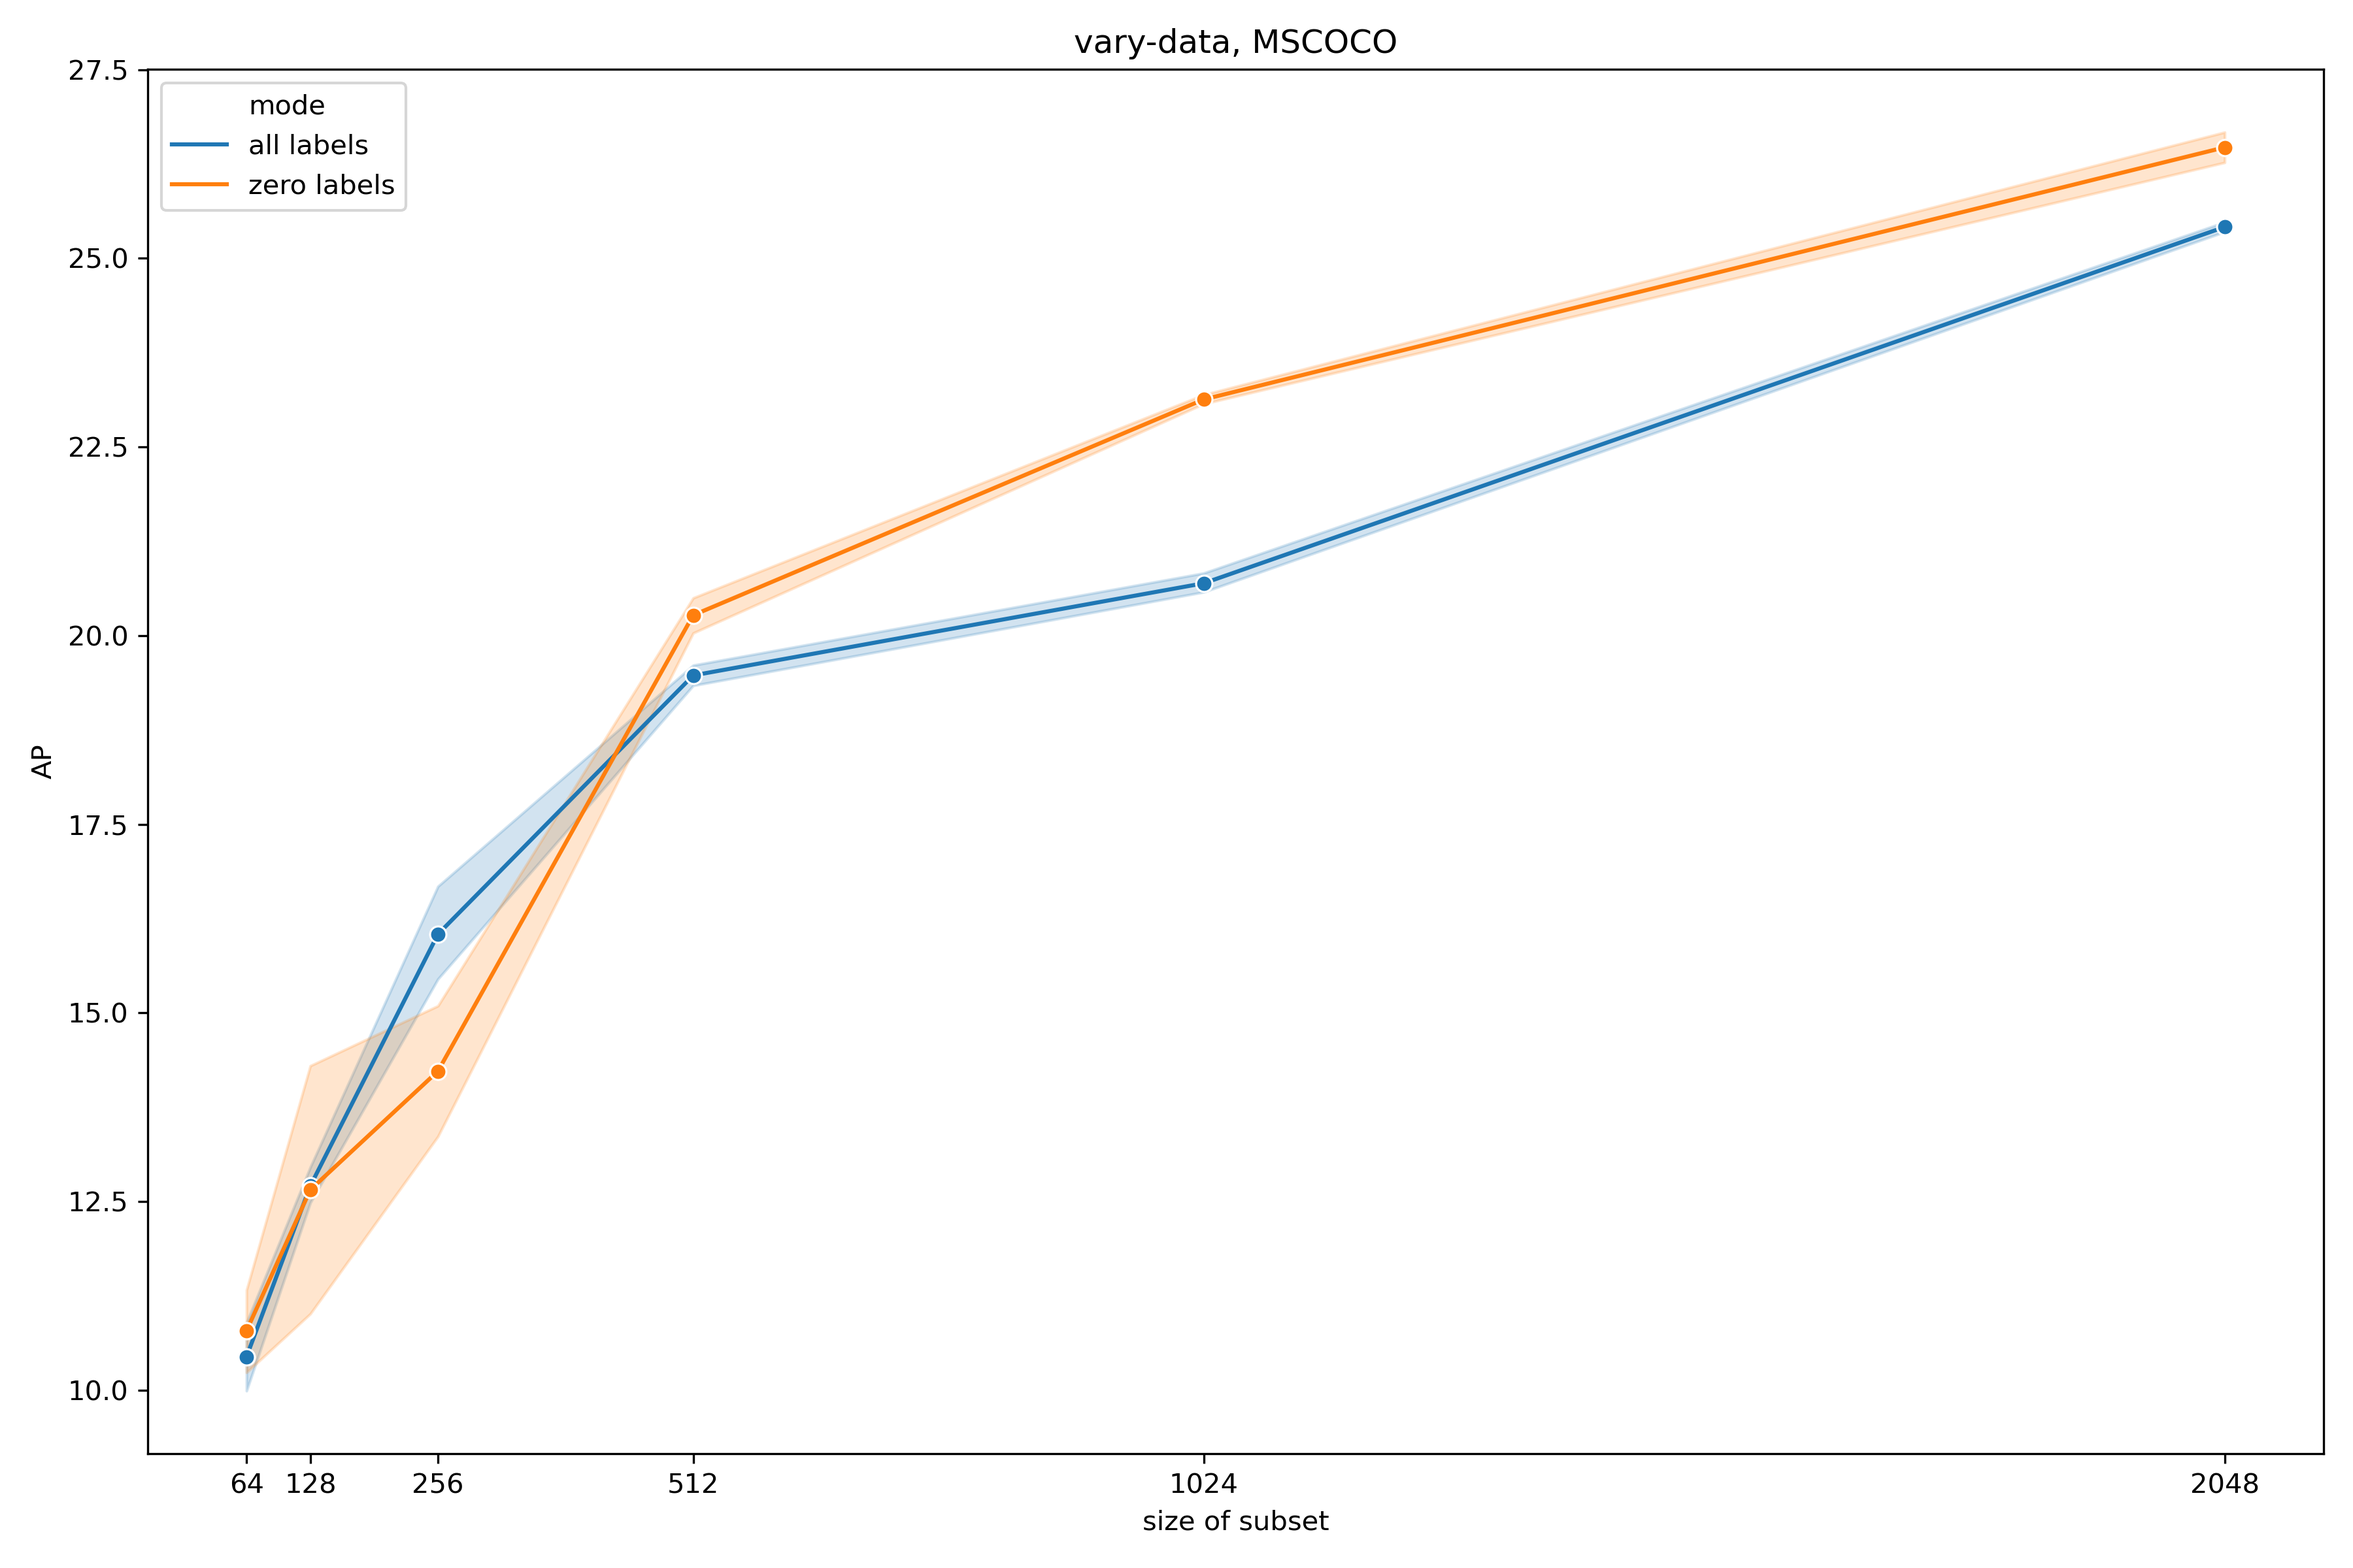
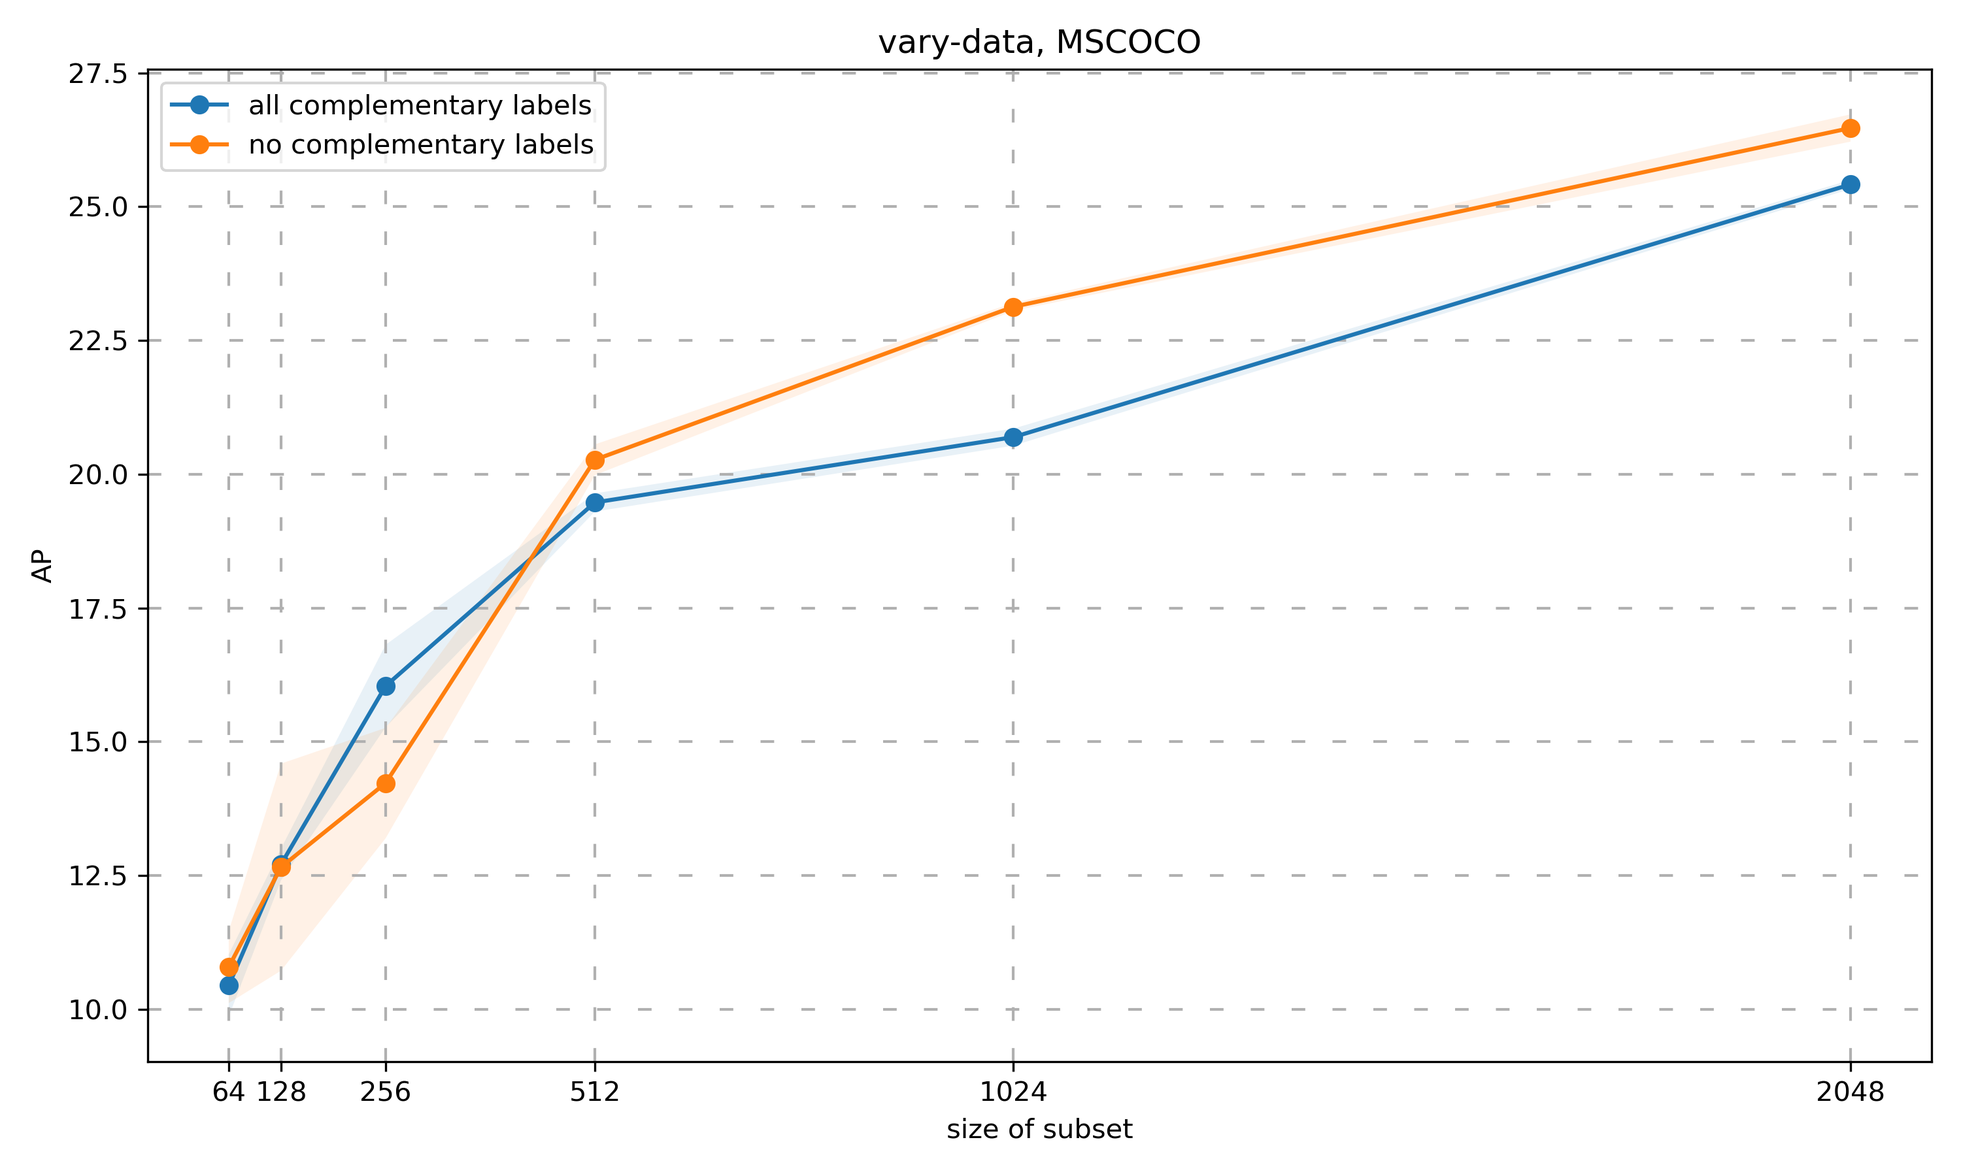
add new image generation

diff --git a/src/scripts/generate_plots.py b/src/scripts/generate_plots.py
@@ -3,7 +3,19 @@ import numpy as np
 import os
 from glob import glob
 import json
-
+import scipy.stats
+import itertools
+def mean_confidence_interval(data, confidence=0.95):
+  cis = []
+  for point in data:
+    a = 1.0 * np.asarray(point)
+    n = len(a)
+    m, se = np.mean(a), scipy.stats.sem(a)
+    h = se * scipy.stats.t.ppf((1 + confidence) / 2., n-1)
+    cis.append(h)
+    # return m, m-h, m+h
+  return np.asarray(cis)
+    
 def plotter(mode, ax, data1, data2, param_dict = {}):
     """
     A helper function to make a graph
@@ -32,6 +44,8 @@ def plotter(mode, ax, data1, data2, param_dict = {}):
       out = ax.plot(data1, data2, **param_dict)
     elif mode == "box":
       out = ax.boxplot(data2, labels=data1, **param_dict)
+    elif mode == "bar":
+      out = ax.bar(x=data1, height=data2, **param_dict)
     return out
 
 # explanation of the various notation:
@@ -53,6 +67,7 @@ def differential(labels, data, main_label, args):
   baseline_mean = np.mean(baseline)
   # ci = 1.96 * np.std(ys_array, axis=1)/y_mean
   fig, ax = plt.subplots(figsize=(10,6))
+  ax.grid(linestyle='--', dashes=(5,10,5,10), linewidth=1, zorder=0)
   for tick in ax.get_xticklabels():
     tick.set_rotation(45)
     tick.set_ha('right')
@@ -60,7 +75,8 @@ def differential(labels, data, main_label, args):
   added_artists = plotter('box', ax, labels, ys_array, {
     "notch": True, 
     "patch_artist": True, 
-    "bootstrap": 1000,
+    #"bootstrap": 1000,
+    "zorder": 2,
     #"showfliers": False,
     "boxprops": {"color": (150./255,200./255,150./255,1), "facecolor": (150./255,200./255,150./255,1)}})
   ax.axhline(y=baseline_mean, color='r', linestyle='--')
@@ -82,43 +98,62 @@ def graph(x, data, main_label, args):
     for point in d:
       y = []
       for p in point:
-        y.append(p["bbox"][main_label]["AP"])
+        # print(len(p))
+        if not np.isnan(p["bbox"][main_label]["AP"]):
+          y.append(p["bbox"][main_label]["AP"])
+        
+      while len(y) < 5:
+        y.append(np.mean(np.asarray(y))) # pad with mean value if nan existed
+        #print(len(y))
+      print(len(y))
+
       ys.append(y)
     processed_data.append(ys)
 
+  for i in range(len(x)):
+    lists = sorted(zip(*[x[i], processed_data[i]]))
+    x[i], processed_data[i] = list(zip(*lists))
+  x_desc = 'number of labels' if args.experiment == "vary-labels" else 'size of subset'
   if len(x) == 1:
     ys = processed_data[0]
     x = x[0]
+
     ys_array = np.asarray(ys)
-    # y_mean = np.mean(ys_array, axis=1)
+    y_mean = np.mean(ys_array, axis=1)
     # ci = 1.96 * np.std(ys_array, axis=1)/y_mean
+    ci0 = mean_confidence_interval(ys, confidence=0.68)
     fig, ax = plt.subplots(figsize=(10,6))
+    ax.grid(linestyle='--', dashes=(5,10,5,10), linewidth=1, zorder=0)
     ax.set_xticks(x)
     ax.set_xticklabels(x)
     # print(np.zeros((len(x), 5), dtype=np.int).T + np.asarray(x, dtype=np.int))
     # print(ys_array)
-    xs_array = (np.zeros((len(x), 5), dtype=np.int).T + np.asarray(x, dtype=np.int)).T
-    x_desc = 'number of labels' if args.experiment == "vary-labels" else 'size of subset'
-    d = {x_desc: np.repeat(np.asarray(x), 5), 'AP': ys_array.flatten()}
-    print(ys_array.flatten())
-    #exit(0)
-    frame = pd.DataFrame(d)
-    print(frame)
-    sns.lineplot(ax = ax,
-              data = frame,
-              x = x_desc, y = 'AP',
-              ci = 68,
-              n_boot=1000,
-              marker='o')
-    # added_artists = plotter('line', ax, x, y_mean, {'marker': 'o'})
+    xs_array = np.asarray(x, dtype=int)
+    # d = {x_desc: np.repeat(np.asarray(x), 5), 'AP': ys_array.flatten()}
+    # print(ys_array.flatten())
+    # #exit(0)
+    # frame = pd.DataFrame(d)
+    # print(frame)
+    # sns.lineplot(ax = ax,
+    #           data = frame,
+    #           x = x_desc, y = 'AP',
+    #           ci = 68,
+    #           n_boot=1000,
+    #           marker='o',
+    #           # kwargs
+    #           zorder= 2)
+    added_artists = plotter('line', ax, x, y_mean, {'marker': 'o'})
     ax.set_title(f"{args.experiment}, {args.dataset}")
-    # ax.fill_between(x, (y_mean-ci), (y_mean+ci), alpha=.1)
+    ax.fill_between(x, (y_mean-ci0), (y_mean+ci0), alpha=.1)
+    ax.set_xlabel(x_desc)
+    ax.set_ylabel("AP")
   elif len(x) == 2:
     ys_all = np.asarray(processed_data[0])
     x_all = x[0]
-    # y_mean = np.mean(ys_array, axis=1)
+    y_mean_all = np.mean(ys_all, axis=1)
     # ci = 1.96 * np.std(ys_array, axis=1)/y_mean
-    fig, ax = plt.subplots(figsize=(12,8))
+    fig, ax = plt.subplots(figsize=(10,6))
+    ax.grid(linestyle='--', dashes=(5,10,5,10), linewidth=1, zorder=0)
     ax.set_xticks(x_all)
     ax.set_xticklabels(x_all)
     # print(np.zeros((len(x), 5), dtype=np.int).T + np.asarray(x, dtype=np.int))
@@ -127,29 +162,41 @@ def graph(x, data, main_label, args):
     x_desc = 'number of labels' if args.experiment == "vary-labels" else 'size of subset'
     
     ys_zero = np.asarray(processed_data[1])
+    y_mean_zero = np.mean(ys_zero, axis=1)
     x_zero = x[1]
-    subset_1 = np.repeat(np.asarray(['all labels' for i in range(len(x_all))], dtype=object), 5)
-    subset_2 = np.repeat(np.asarray(['zero labels' for i in range(len(x_zero))], dtype=object), 5)
-    d = {
-      x_desc: np.hstack((np.repeat(np.asarray(x_all), 5), np.repeat(np.asarray(x_zero), 5))), 
-      'AP': np.hstack((ys_all.flatten(), ys_zero.flatten())),
-      'mode': np.hstack((subset_1, subset_2))
-    }
-    print(ys_all.flatten())
-    #exit(0)
-    frame = pd.DataFrame(d)
-    with pd.option_context('display.max_rows', None, 'display.max_columns', None):  # more options can be specified also
-      print(frame)
-    sns.lineplot(ax = ax,
-              data = frame,
-              x = x_desc, y = 'AP',
-              hue = 'mode',
-              ci = 68,
-              n_boot=1000,
-              marker='o')
-    # added_artists = plotter('line', ax, x, y_mean, {'marker': 'o'})
+    # subset_1 = np.repeat(np.asarray(['all labels' for i in range(len(x_all))], dtype=object), 5)
+    # subset_2 = np.repeat(np.asarray(['zero labels' for i in range(len(x_zero))], dtype=object), 5)
+    # d = {
+    #   x_desc: np.hstack((np.repeat(np.asarray(x_all), 5), np.repeat(np.asarray(x_zero), 5))), 
+    #   'AP': np.hstack((ys_all.flatten(), ys_zero.flatten())),
+    #   'mode': np.hstack((subset_1, subset_2))
+    # }
+    # print(ys_all.flatten())
+    # #exit(0)
+    # frame = pd.DataFrame(d)
+    # with pd.option_context('display.max_rows', None, 'display.max_columns', None):  # more options can be specified also
+    #   print(frame)
+    # sns.lineplot(ax = ax,
+    #           data = frame,
+    #           x = x_desc, y = 'AP',
+    #           hue = 'mode',
+    #           ci = 68,
+    #           n_boot=1000,
+    #           marker='o',
+    #           # kwargs
+    #           zorder= 2)
+    added_artists = plotter('line', ax, x_all, y_mean_all, {'marker': 'o'})
+    ci_all = mean_confidence_interval(ys_all, confidence=0.68)
+    ax.fill_between(x_all, (y_mean_all-ci_all), (y_mean_all+ci_all), alpha=.1)
+    
+    added_artists = plotter('line', ax, x_zero, y_mean_zero, {'marker': 'o'})
+    ci_zero = mean_confidence_interval(ys_zero, confidence=0.68)
+    ax.fill_between(x_zero, (y_mean_zero-ci_zero), (y_mean_zero+ci_zero), alpha=.1)
+
+    ax.legend(['all complementary labels', 'no complementary labels'])
     ax.set_title(f"{args.experiment}, {args.dataset}")
-    # ax.fill_between(x, (y_mean-ci), (y_mean+ci), alpha=.1)
+    ax.set_xlabel(x_desc)
+    ax.set_ylabel("AP")
 
   # for tick in ax.get_xticklabels():
   #   tick.set_rotation(90)
@@ -158,8 +205,66 @@ def graph(x, data, main_label, args):
   plt.savefig(os.path.join(args.path, f"{args.experiment}-{args.dataset}.png"), dpi=300)
   # plt.show()
 
-def bar(data):
-  pass 
+def bar(labels, data, main_label, args):
+  ys = []
+  for point in data:
+    y = []
+    for p in point:
+      y.append(p["bbox"][main_label]["AP"])
+    ys.append(y)
+
+
+  means = np.mean(np.asarray(ys), axis=1)
+  ys_array = [np.asarray(y) for y in ys]
+  ci = mean_confidence_interval(ys, confidence=0.95)
+  print(ci.shape)
+  fig, ax = plt.subplots(figsize=(10,6))
+  ax.grid(linestyle='--', dashes=(5,10,5,10), linewidth=1, zorder=0)  
+  # for tick in ax.get_xticklabels():
+  #   tick.set_rotation(45)
+  #   tick.set_ha('right')
+
+  print(ci)
+  print(labels)
+  print(ys_array)
+  added_artists = plotter('bar', ax, labels, np.mean(ys_array, axis=1), {
+    "yerr": [y for y in ci], 
+    "width": 0.5, 
+    "capsize": 10,
+    "color": ["tab:blue", "tab:orange"],
+    "zorder": 2})
+
+  ax.set_ylabel('AP')
+  ax.set_title(f"{args.experiment}, {args.dataset}")
+
+  # ys = np.asarray(ys)
+  # subset_1 = np.repeat(np.asarray(['no complementary labels'], dtype=object), 5)
+  # subset_2 = np.repeat(np.asarray(['all complementary labels'], dtype=object), 5)
+  # d = {
+  #   'AP': np.hstack((ys[0].flatten(), ys[1].flatten())),
+  #   'mode': np.hstack((subset_1, subset_2))
+  # }
+  # # print(ys_all.flatten())
+  # #exit(0)
+  # frame = pd.DataFrame(d)
+  # with pd.option_context('display.max_rows', None, 'display.max_columns', None):  # more options can be specified also
+  #   print(frame)
+  # sns.barplot(ax = ax,
+  #           data = frame,
+  #           x = 'mode', y = 'AP',
+  #           # hue = 'mode',
+  #           ci = 95,
+  #           n_boot=1000,
+  #           capsize=0.1, 
+  #           # kwargs
+  #           zorder=2)
+  #           # marker='o')
+  # added_artists = plotter('line', ax, x, y_mean, {'marker': 'o'})
+  ax.set_title(f"{args.experiment}, {args.dataset}")
+
+  plt.autoscale()
+  plt.tight_layout()
+  plt.savefig(os.path.join(args.path, f"{args.experiment}-{args.dataset}.png"), dpi=300)
 
 def main(args):
   assert args.dataset in ["CSAW-S", "MSCOCO"], f"dataset '{args.dataset}' not supported!"
@@ -179,7 +284,14 @@ def main(args):
         data.append(json.load(fr))
 
   if args.plot == "bar":
-    pass # TODO
+    labels = ["no complementary labels", "all complementary labels"]
+    data = []
+    with open(os.path.join(result_path, f"metrics-base-zero.json"), 'r') as fr:
+      data.insert(0, json.load(fr))
+    with open(os.path.join(result_path, f"metrics-base-all.json"), 'r') as fr:
+      data.append(json.load(fr))
+    bar(labels, data, main_label, args)
+    # pass # TODO
 
   elif args.plot == "graph":
     if args.experiment == "vary-labels":
